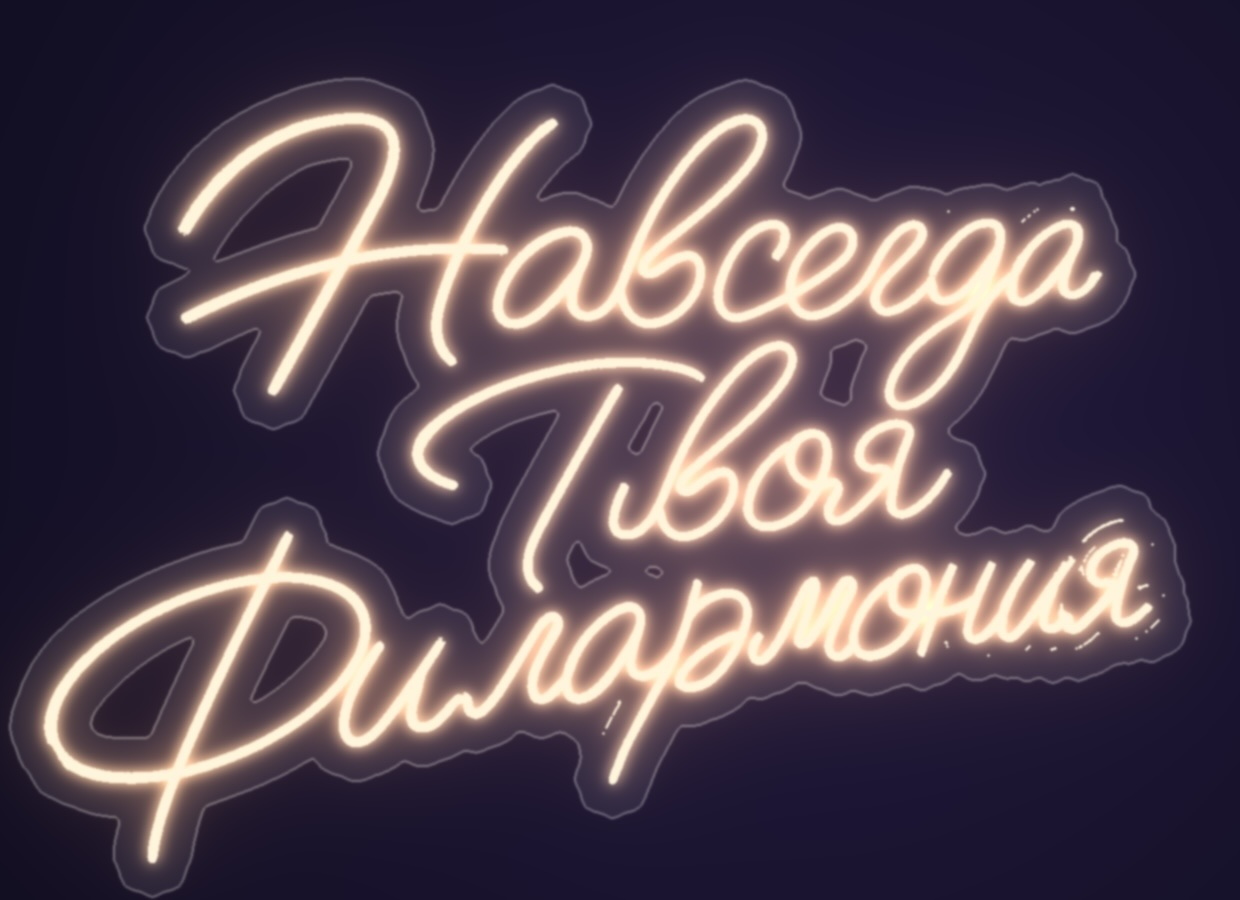
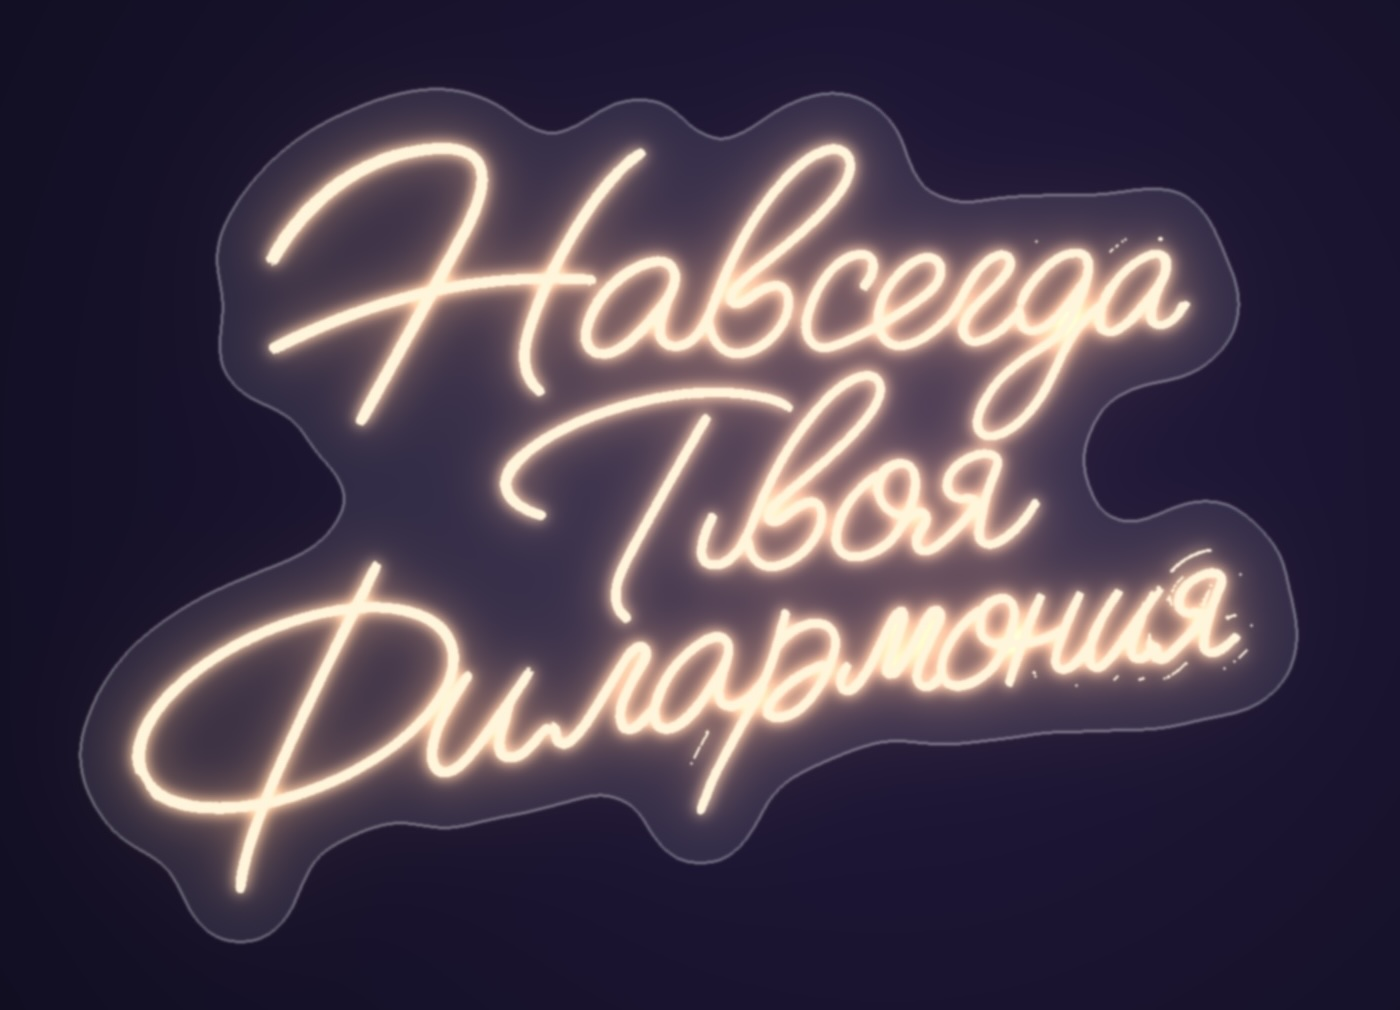
Неон: акрил по контуру одной цельной пластиной, как у настоящей вывески

diff --git a/preview.js b/preview.js
@@ -223,19 +223,31 @@ function neonFrom(url) {
     if (x1 < 0) throw new Error("на картинке не нашлось линий");
     const cw = x1 - x0 + 1, ch = y1 - y0 + 1;
     // поля вокруг рисунка, чтобы свечение и акрил не обрезались
-    const pad = Math.round(Math.max(cw, ch) * 0.08), W = cw + pad * 2, H = ch + pad * 2;
+    const pad = Math.round(Math.max(cw, ch) * 0.13), W = cw + pad * 2, H = ch + pad * 2;
     const L = document.createElement("canvas"); L.width = W; L.height = H;
     L.getContext("2d").drawImage(m, x0, y0, cw, ch, pad, pad, cw, ch);
-    // акрил по контуру: рисунок «раздуваем» во все стороны и заливаем
+    // акрил по контуру — одна цельная пластина, как у настоящей вывески:
+    // раздуваем линии, размываем и режем по порогу (так заливаются щели между буквами и строками),
+    // потом ещё раз сглаживаем край
     const Pc = document.createElement("canvas"); Pc.width = W; Pc.height = H;
     const pg = Pc.getContext("2d", { willReadFrequently: true });
-    const r = pad * 0.75;
+    const r = Math.max(cw, ch) * 0.065;
     const stamp = (dx, dy) => pg.drawImage(m, x0, y0, cw, ch, pad + dx, pad + dy, cw, ch);
-    for (let s = 0; s < 24; s++) { const t = (s / 24) * Math.PI * 2; stamp(Math.cos(t) * r, Math.sin(t) * r); }
-    for (let s = 0; s < 12; s++) { const t = (s / 12) * Math.PI * 2; stamp(Math.cos(t) * r * 0.5, Math.sin(t) * r * 0.5); }
-    const pd = pg.getImageData(0, 0, W, H), pp = pd.data;
-    for (let i = 0; i < pp.length; i += 4) { pp[i] = pp[i + 1] = pp[i + 2] = 255; pp[i + 3] = pp[i + 3] > 24 ? 255 : 0; }
-    pg.putImageData(pd, 0, 0);
+    for (let s = 0; s < 32; s++) { const t = (s / 32) * Math.PI * 2; stamp(Math.cos(t) * r, Math.sin(t) * r); }
+    for (let s = 0; s < 16; s++) { const t = (s / 16) * Math.PI * 2; stamp(Math.cos(t) * r * 0.5, Math.sin(t) * r * 0.5); }
+    stamp(0, 0);
+    // размытие через уменьшение и обратное растяжение картинки (работает во всех браузерах)
+    const soften = (f, cut) => {
+      const sw = Math.max(1, Math.round(W / f)), sh = Math.max(1, Math.round(H / f));
+      const t = document.createElement("canvas"); t.width = sw; t.height = sh;
+      const tg = t.getContext("2d"); tg.imageSmoothingQuality = "high"; tg.drawImage(Pc, 0, 0, sw, sh);
+      pg.clearRect(0, 0, W, H); pg.imageSmoothingQuality = "high"; pg.drawImage(t, 0, 0, W, H);
+      const pd = pg.getImageData(0, 0, W, H), pp = pd.data;
+      for (let i = 0; i < pp.length; i += 4) { pp[i] = pp[i + 1] = pp[i + 2] = 255; pp[i + 3] = pp[i + 3] > cut ? 255 : 0; }
+      pg.putImageData(pd, 0, 0);
+    };
+    soften(Math.max(10, Math.round(Math.max(W, H) / 32)), 46);  // залить щели между буквами и строками
+    soften(Math.max(3, Math.round(Math.max(W, H) / 220)), 128); // сгладить край
     return { lines: L.toDataURL("image/png"), plate: Pc.toDataURL("image/png"), ratio: W / H };
   })();
   neonCache.set(url, job);
@@ -481,7 +493,7 @@ async function bakeNeon(r, color, contour) {
   const W = lines.naturalWidth, H = lines.naturalHeight, k = Math.max(W, H) / 900;
   const c = document.createElement("canvas"); c.width = W; c.height = H;
   const g = c.getContext("2d");
-  if (contour) { g.globalAlpha = 0.16; g.drawImage(plate, 0, 0); g.globalAlpha = 1; }
+  if (contour) { g.globalAlpha = 0.2; g.drawImage(plate, 0, 0); g.globalAlpha = 1; }
   const col = NEON_COLORS[color] || NEON_COLORS["Тёплый белый"];
   g.shadowColor = col;
   [60, 36, 20, 10, 4].forEach((b) => { g.shadowBlur = b * k; g.drawImage(lines, 0, 0); g.drawImage(lines, 0, 0); });

diff --git a/index.html b/index.html
@@ -12,7 +12,7 @@
   <link rel="preconnect" href="https://fonts.googleapis.com">
   <link rel="preconnect" href="https://fonts.gstatic.com" crossorigin>
   <link href="https://fonts.googleapis.com/css2?family=Geologica:wght@400;500;600;700;800&family=Onest:wght@400;500;600&family=Marck+Script&display=swap" rel="stylesheet">
-  <link rel="stylesheet" href="styles.css?v=202611181554">
+  <link rel="stylesheet" href="styles.css?v=202611181558">
   <script type="application/ld+json">
   {
     "@context": "https://schema.org",
@@ -237,7 +237,7 @@
           <figcaption><b>Штендер</b><span>Детская парикмахерская</span></figcaption>
         </figure>
         <figure class="work">
-          <img src="assets/works/neon.jpg" alt="Неоновая вывеска: акрил по контуру, тёплый белый" width="1240" height="900" loading="lazy" decoding="async">
+          <img src="assets/works/neon.jpg" alt="Неоновая вывеска: акрил по контуру, тёплый белый" width="1400" height="1010" loading="lazy" decoding="async">
           <figcaption><b>Неоновая вывеска</b><span>акрил по контуру</span></figcaption>
         </figure>
         <figure class="work">
@@ -347,8 +347,8 @@
   <symbol id="i-wa" viewBox="0 0 24 24"><path fill="currentColor" d="M12.04 2C6.58 2 2.13 6.45 2.13 11.91c0 1.75.46 3.45 1.32 4.95L2.05 22l5.25-1.38a9.9 9.9 0 0 0 4.74 1.21c5.46 0 9.91-4.45 9.91-9.91S17.5 2 12.04 2Zm5.8 14.05c-.24.68-1.42 1.32-1.96 1.37-.5.05-.97.23-3.27-.68-2.77-1.09-4.52-3.92-4.66-4.1-.13-.18-1.11-1.48-1.11-2.82 0-1.34.7-2 .95-2.27.25-.27.54-.34.72-.34h.52c.17 0 .4-.06.62.48.24.56.8 1.94.86 2.08.07.14.11.3.02.48-.09.18-.14.3-.27.45l-.41.48c-.14.13-.28.28-.12.56.16.27.72 1.18 1.54 1.92 1.06.95 1.95 1.24 2.23 1.38.27.14.43.11.59-.07.16-.18.68-.8.86-1.07.18-.27.36-.23.61-.14.25.09 1.6.75 1.87.89.27.14.45.2.52.32.07.11.07.66-.17 1.33Z"/></symbol>
 </svg>
 
-<script src="config.js?v=202611181554" defer></script>
-<script src="preview.js?v=202611181554" defer></script>
-<script src="script.js?v=202611181554" defer></script>
+<script src="config.js?v=202611181558" defer></script>
+<script src="preview.js?v=202611181558" defer></script>
+<script src="script.js?v=202611181558" defer></script>
 </body>
 </html>

diff --git a/styles.css b/styles.css
@@ -825,7 +825,7 @@ button[type="submit"]:disabled { opacity: .7; cursor: progress; transform: none;
 .pv-neon img { position: absolute; inset: 0; width: 100%; height: 100%; object-fit: contain; }
 .neon-lines { filter: drop-shadow(0 0 1px #fff) drop-shadow(0 0 4px var(--neon)) drop-shadow(0 0 12px var(--neon)) drop-shadow(0 0 30px var(--neon)); }
 .neon-raw { mix-blend-mode: screen; }
-.neon-plate { opacity: .14; filter: drop-shadow(0 0 1px rgba(255,255,255,.9)); }
+.neon-plate { opacity: .18; filter: drop-shadow(0 0 1px rgba(255,255,255,.95)); }
 .pv-neon.b-rect::before, .pv-neon.b-black::before { content: ""; position: absolute; inset: -3%; border-radius: 16px; }
 .pv-neon.b-rect::before { background: rgba(255,255,255,.07); box-shadow: inset 0 0 0 1.5px rgba(255,255,255,.3), 0 20px 40px -24px rgba(0,0,0,.8); }
 .pv-neon.b-black::before { background: linear-gradient(160deg, #1a1824, #08070d); box-shadow: inset 0 0 0 1px rgba(255,255,255,.1), 0 24px 44px -20px rgba(0,0,0,.9); }

diff --git a/z.html b/z.html
@@ -10,7 +10,7 @@
   <link rel="preconnect" href="https://fonts.googleapis.com">
   <link rel="preconnect" href="https://fonts.gstatic.com" crossorigin>
   <link href="https://fonts.googleapis.com/css2?family=Geologica:wght@400;600;700;800&family=Onest:wght@400;500;600&family=Marck+Script&display=swap" rel="stylesheet">
-  <link rel="stylesheet" href="styles.css?v=202611181554">
+  <link rel="stylesheet" href="styles.css?v=202611181558">
   <style>
     body { background: var(--mist); }
     .order-top { background: var(--night); color: #fff; padding: 18px 0; }
@@ -70,8 +70,8 @@
     </div>
   </main>
 
-  <script src="config.js?v=202611181554"></script>
-  <script src="preview.js?v=202611181554"></script>
+  <script src="config.js?v=202611181558"></script>
+  <script src="preview.js?v=202611181558"></script>
   <script>
     (function () {
       document.querySelector("[data-wa]").href = "https://wa.me/" + CONFIG.whatsapp;
